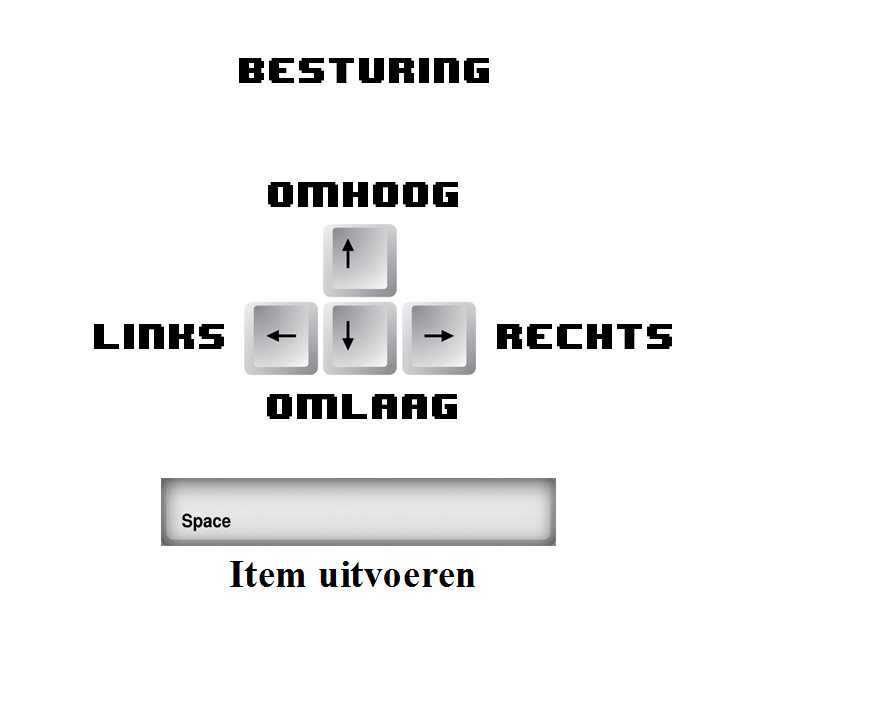
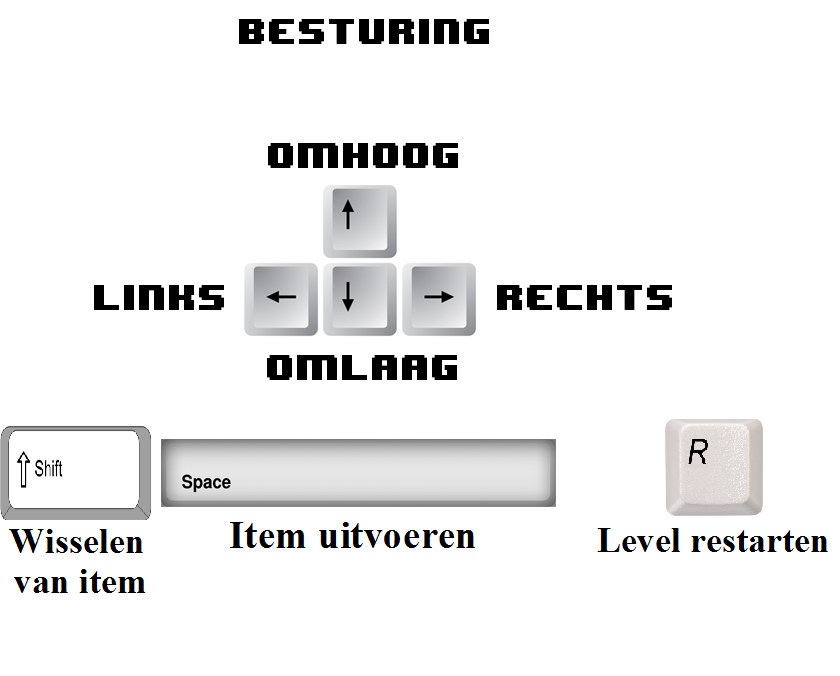
Code opgeschoond en hulpmenu uitgebreid

diff --git a/DoolhofSpel/src/doolhofspel/HoofdMenu.java b/DoolhofSpel/src/doolhofspel/HoofdMenu.java
@@ -4,14 +4,12 @@
  */
 package doolhofspel;
 
-import java.awt.BorderLayout;
-import java.awt.Dimension;
 import java.awt.FlowLayout;
 import java.awt.event.ActionEvent;
 import java.awt.event.ActionListener;
 import javax.swing.JButton;
 import javax.swing.JFrame;
-import javax.swing.JPanel;
+
 
 /**
  *
@@ -51,7 +49,7 @@ public class HoofdMenu extends JFrame {
                     @Override
                     public void actionPerformed(ActionEvent event) {
                         HulpMenu hulp = new HulpMenu();
-                        hulp.setSize(820, 800);
+                        hulp.setSize(840, 780);
                         hulp.setLocationRelativeTo(null);
                         hulp.setDefaultCloseOperation(JFrame.EXIT_ON_CLOSE);
                         hulp.setVisible(true);

diff --git a/DoolhofSpel/src/doolhofspel/Titlebar.java b/DoolhofSpel/src/doolhofspel/Titlebar.java
@@ -5,15 +5,11 @@
 package doolhofspel;
 
 import java.awt.Color;
-import java.awt.FlowLayout;
 import java.awt.Graphics;
 import java.awt.Image;
-import java.awt.event.ActionEvent;
-import java.awt.event.ActionListener;
 import javax.swing.ImageIcon;
-import javax.swing.JButton;
-import javax.swing.JFrame;
 import javax.swing.JPanel;
+
 
 /**
  *

diff --git a/DoolhofSpel/src/doolhofspel/SpelFrame.java b/DoolhofSpel/src/doolhofspel/SpelFrame.java
@@ -6,12 +6,10 @@
 package doolhofspel;
 
 import java.awt.BorderLayout;
-import java.awt.Button;
 import java.awt.Color;
 import java.awt.Dimension;
 import javax.swing.JFrame;
-import javax.swing.JLabel;
-import javax.swing.JPanel;
+
 
 public class SpelFrame extends JFrame {
     HoofdMenu menu;

diff --git a/DoolhofSpel/src/doolhofspel/Speler.java b/DoolhofSpel/src/doolhofspel/Speler.java
@@ -4,10 +4,8 @@
  */
 package doolhofspel;
 
-import java.awt.Graphics;
-import java.awt.Image;
+
 import java.util.ArrayList;
-import java.util.Arrays;
 import java.util.Collections;
 import java.util.List;
 import javax.swing.ImageIcon;

diff --git a/DoolhofSpel/src/doolhofspel/ValsSpeler.java b/DoolhofSpel/src/doolhofspel/ValsSpeler.java
@@ -12,7 +12,7 @@ import javax.swing.ImageIcon;
  */
 public class ValsSpeler extends Item {
 
-    int waarde;
+    private int waarde;
     
     
     public ValsSpeler(Veld veld, int waarde, boolean pickup) {

diff --git a/DoolhofSpel/src/doolhofspel/Level.java b/DoolhofSpel/src/doolhofspel/Level.java
@@ -13,7 +13,6 @@ import java.io.FileNotFoundException;
 import java.util.List;
 import java.util.Random;
 import java.util.Scanner;
-import javax.swing.JOptionPane;
 import javax.swing.JPanel;
 
 /**

diff --git a/DoolhofSpel/src/doolhofspel/Helper.java b/DoolhofSpel/src/doolhofspel/Helper.java
@@ -5,7 +5,6 @@
 package doolhofspel;
 
 import java.awt.Graphics;
-import java.util.ArrayList;
 import javax.swing.ImageIcon;
 
 /**

diff --git a/DoolhofSpel/src/doolhofspel/Muur.java b/DoolhofSpel/src/doolhofspel/Muur.java
@@ -4,7 +4,7 @@
  */
 package doolhofspel;
 
-import java.awt.Image;
+
 import javax.swing.ImageIcon;
 
 /**

diff --git a/DoolhofSpel/src/doolhofspel/Item.java b/DoolhofSpel/src/doolhofspel/Item.java
@@ -4,7 +4,6 @@
  */
 package doolhofspel;
 
-import javax.swing.ImageIcon;
 
 /**
  *
